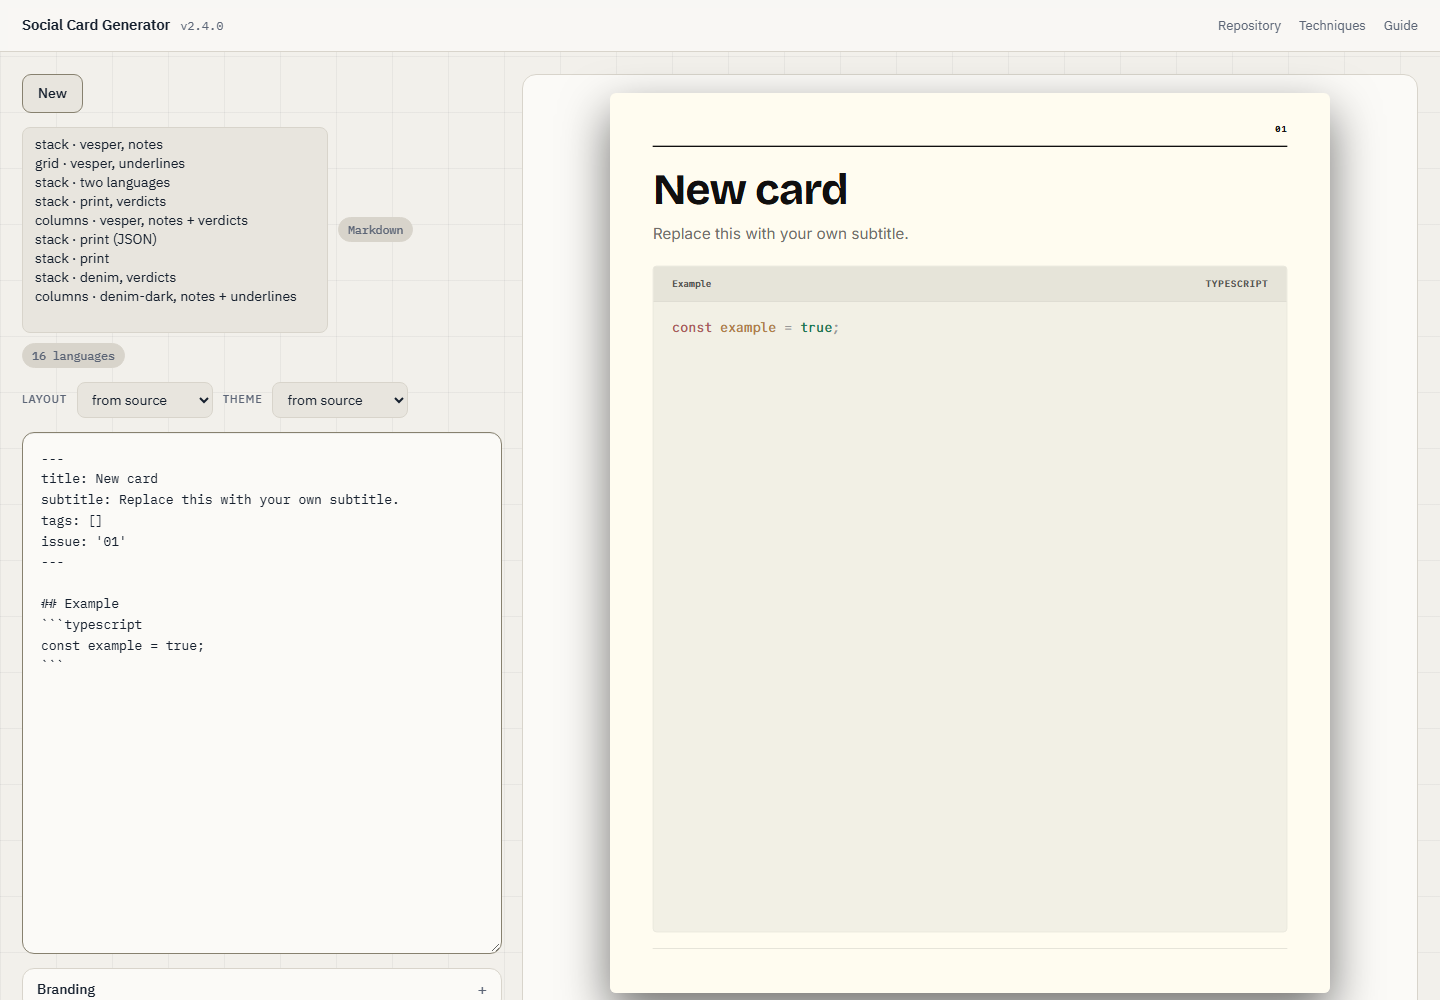
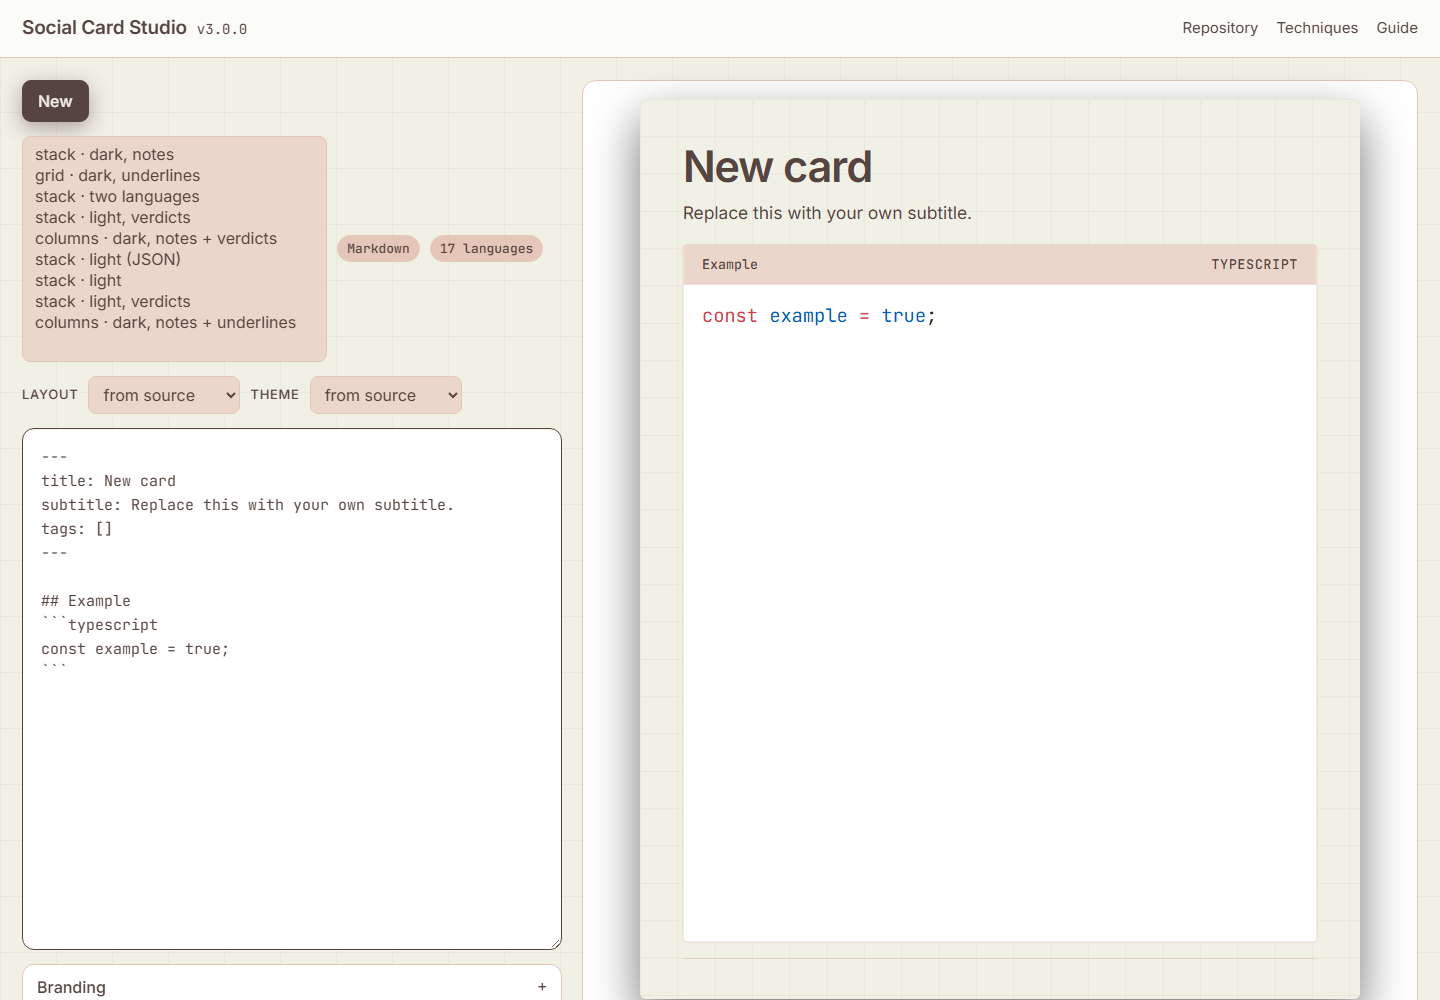
Refresh guide screenshots and fix pre-3.0 theme remnants in the sandbox (#35)
Regenerates docs/images/guide/* from the 3.0 sandbox, seeds the custom
palette from the light theme, corrects a stale build-sandbox comment and
disambiguates two identical example labels. Bumps to 3.0.1.

diff --git a/web/sandbox/index.template.html b/web/sandbox/index.template.html
@@ -194,11 +194,11 @@ dialog .row { display: flex; justify-content: space-between; align-items: center
       <p class="hint" id="editing-hint" hidden></p>
       <div class="palette" id="palette" hidden>
         <div class="fields palette-fields">
-          <label><span>Background</span><input id="p-bg" type="color" value="#fffcf0"></label>
-          <label><span>Text</span><input id="p-fg" type="color" value="#100f0f"></label>
-          <label><span>Accent</span><input id="p-accent" type="color" value="#205ea6"></label>
-          <label><span>Panel</span><input id="p-panel" type="color" value="#f2f0e5"></label>
-          <label><span>Code colours</span><select id="p-code"><option value="vitesse-light">vitesse-light (light panels)</option><option value="vesper">vesper (dark panels)</option><option value="github-light">github-light (light panels)</option><option value="github-dark">github-dark (dark panels)</option></select></label>
+          <label><span>Background</span><input id="p-bg" type="color" value="#F1F0E5"></label>
+          <label><span>Text</span><input id="p-fg" type="color" value="#56453F"></label>
+          <label><span>Accent</span><input id="p-accent" type="color" value="#56453F"></label>
+          <label><span>Panel</span><input id="p-panel" type="color" value="#FFFFFF"></label>
+          <label><span>Code colours</span><select id="p-code"><option value="vitesse-light">vitesse-light (light panels)</option><option value="vesper">vesper (dark panels)</option><option value="github-light" selected>github-light (light panels)</option><option value="github-dark">github-dark (dark panels)</option></select></label>
         </div>
         <div class="palette-actions">
           <button class="btn" id="p-copy">Copy as TypeScript theme</button>

diff --git a/scripts/build-sandbox.ts b/scripts/build-sandbox.ts
@@ -60,7 +60,7 @@ async function fontCss(): Promise<string> {
 type SandboxExample = { label: string; content: string };
 
 /**
- * The dropdown label a card source declares for itself, e.g. "stack · print".
+ * The dropdown label a card source declares for itself, e.g. "stack · light".
  * Also checks every panel against SANDBOX_LANGUAGES: an example that only
  * the CLI's full Shiki bundle can render would throw at pick-time in the
  * sandbox dropdown instead of failing loudly here at build time.

diff --git a/CHANGELOG.md b/CHANGELOG.md
@@ -2,6 +2,14 @@
 
 All notable changes to this project are documented here. The format follows [Keep a Changelog](https://keepachangelog.com/en/1.1.0/) and the project uses [Semantic Versioning](https://semver.org/).
 
+## [3.0.1] - 2026-10-05
+
+### Changed
+
+- `docs/images/guide/*` screenshots regenerated from the 3.0 sandbox (they still showed v2.4.0, IBM Plex and the retired themes).
+- The sandbox's "custom…" palette starts from the `light` theme's colours and the `github-light` code palette instead of the old `print` colours.
+- The two examples that were both labelled "stack · light, verdicts" in the picker are now distinguishable (the JSON one reads "stack · light, verdicts (JSON)"). A stale `print` example in a `build-sandbox.ts` comment is corrected.
+
 ## [3.0.0] - 2026-10-05
 
 Feedback from first readers: card text was unreadable at feed size on LinkedIn, and the card carried duplicated and default-filled chrome.
